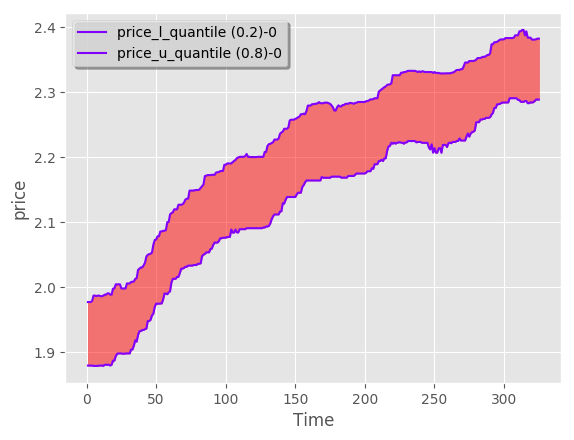
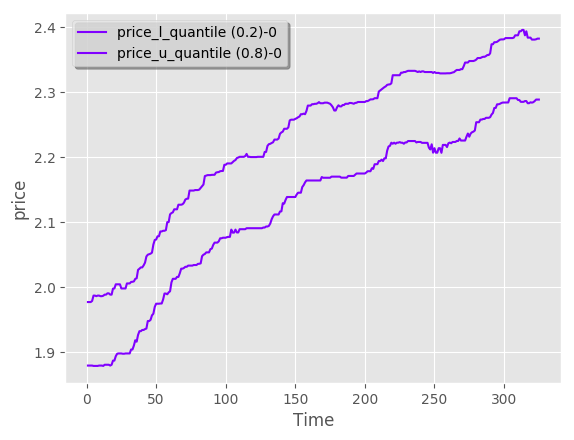
Renamed and fixed fill_between option from ticket #18

Changed region(s): [[0.1481, 0.0591, 0.9477, 0.8273]]

diff --git a/src/visualisation_scripts/plots.py b/src/visualisation_scripts/plots.py
@@ -153,7 +153,9 @@ class Timeseries(A):
                         clr = next(colors)
                         self.plot_line(ax, x, y1[r], legend_label[0]+'-'+str(r), clr)
                         self.plot_line(ax, x, y2[r], legend_label[1]+'-'+str(r), clr)
-                        plt.fill_between(x, y1[r], y2[r], color=self.__P.fillcolor(self.idx), alpha=.5)
+
+                        if self.__P.fill_between(self.idx):
+                            plt.fill_between(x, y1[r], y2[r], color=self.__P.fillcolor(self.idx), alpha=.5)
 
 
                     plot_name = self.__P.plot_name(self.idx)
@@ -256,7 +258,8 @@ class Timeseries(A):
                         clr = next(colors)
                         self.plot_line(ax, x, y1[r], legend_label[0]+'_run_'+str(r), clr)
                         self.plot_line(ax, x, y2[r], legend_label[1]+'_run_'+str(r), clr)
-                        plt.fill_between(x, y1[r], y2[r], color='k', alpha=.5)
+                        if self.__P.fill_between(self.idx):
+                            plt.fill_between(x, y1[r], y2[r], color='k', alpha=.5)
                         plot_name = self.__P.plot_name(self.idx)
                         plt.savefig(self.outpath + '/' + plot_name[:-4] + "_" + str(file_count) + ".png", bbox_inches='tight')
                         file_count = file_count + 1
@@ -319,7 +322,7 @@ class Histogram():
             le_label = label
         else:
             le_label = self.__P.legend_label(self.idx)
-        out = ax.hist(data, n_bins, histtype=self.__P.histtype(self.idx), stacked=self.__P.stacked(self.idx), normed=self.__P.norm(self.idx), fill=self.__P.fill(self.idx), color=colors, label=le_label)
+        out = ax.hist(data, n_bins, histtype=self.__P.histtype(self.idx), stacked=self.__P.stacked(self.idx), normed=self.__P.norm(self.idx), fill=self.__P.fill_between(self.idx), color=colors, label=le_label)
         if self.__P.legend(self.idx) is True:
             plt.legend(loc=self.__P.legend_location(self.idx), fancybox=True, shadow=True)
         if self.__P.plot_title(self.idx) is not None:
@@ -816,8 +819,8 @@ class Boxplot(A):
         #print s.mean().values
         box_df['mean'] = s.mean()
         box_df['median'] = s.median()
-        box_df['upper_quartile'] = s.upper_quartile()
-        box_df['lower_quartile'] = s.lower_quartile()
+        box_df['upper_percentile'] = s.upper_percentile()
+        box_df['lower_percentile'] = s.lower_percentile()
         box_df['max'] = s.maximum()
         box_df['min'] = s.minimum()
         return box_df

diff --git a/src/visualisation_scripts/parameters.py b/src/visualisation_scripts/parameters.py
@@ -12,7 +12,7 @@ class A:
 
 class M:
     # Types of statistical summary
-    mean, median, upper_quartile, lower_quartile, custom_quantile, minimum, maximum, full = range(8)
+    mean, median, upper_percentile, lower_percentile, custom_quantile, minimum, maximum, full = range(8)
     # 0, 1, 2, 3, 4, 5
 
 
@@ -294,10 +294,10 @@ class Plot_configuration():
             return self.__param[key]['normed']
         return self.__default_plot_parameters.__dict__['normed']
 
-    def fill(self, key):
-        if 'fill' in self.__param[key].keys():
-            return self.__param[key]['fill']
-        return self.__default_plot_parameters.__dict__['fill']
+    def fill_between(self, key):
+        if 'fill_between' in self.__param[key].keys():
+            return self.__param[key]['fill_between']
+        return self.__default_plot_parameters.__dict__['fill_between']
 
     def fillcolor(self, key):
         if 'fillcolor' in self.__param[key].keys():
@@ -338,7 +338,7 @@ class Figure_default_parameters(object):
         self.histtype = 'bar'
         self.stacked = False
         self.normed = 1
-        self.fill = False
+        self.fill_between = False
         self.fillcolor = 'black'
         self.greyscale = False
         self.number_bars = 5

diff --git a/src/visualisation_scripts/summarystats.py b/src/visualisation_scripts/summarystats.py
@@ -25,7 +25,7 @@ class SummaryStats(A):
         #print self.__data.head(5)
 
     def compute_summary(self):
-        summary_type = {'mean': self.mean, 'median': self.median, 'upper_quartile': self.upper_quartile, 'lower_quartile': self.lower_quartile, 'custom_quantile': self.custom_quantile, 'minimum': self.minimum, 'maximum': self.maximum, 'full':self.full}
+        summary_type = {'mean': self.mean, 'median': self.median, 'upper_percentile': self.upper_percentile, 'lower_percentile': self.lower_percentile, 'custom_quantile': self.custom_quantile, 'minimum': self.minimum, 'maximum': self.maximum, 'full':self.full}
         return summary_type[self.__param['summary']]()
 
     def map_analysis(self):
@@ -101,8 +101,8 @@ class SummaryStats(A):
     def median(self):
         return self.quantile(0.50)
 
-    def upper_quartile(self):
+    def upper_percentile(self):
         return self.quantile(0.75)
 
-    def lower_quartile(self):
+    def lower_percentile(self):
         return self.quantile(0.25)

diff --git a/docs/visualisation_scripts/config.rst b/docs/visualisation_scripts/config.rst
@@ -16,7 +16,7 @@ config.yaml
 ::
 
   i/o:
-    # set up the name of the root folder from repository    
+    # set up the name of the root folder from repository
     repo_name: 'FLAViz'
 
     # for absolute input paths use:
@@ -31,7 +31,7 @@ config.yaml
 
     # for relative output paths use:
     output_path: 'results'
-    
+
     input_files:
         CentralBank: CentralBank.h5
         Eurostat: Eurostat.h5
@@ -65,11 +65,11 @@ The type of analysis determines how the data set is being grouped using the ``gr
 As an example, the relevant code for taking the mean is (see ``summarystats.py``):
 
         agent_analysis = lambda: self.__data.groupby(level=['set', 'run', 'major', 'minor']).mean()
-        
+
         multiple_run_analysis = lambda: self.__data.groupby(level=['set', 'run', 'major']).mean()
-        
+
         multiple_batch_analysis = lambda: self.__data.groupby(level=['set', 'major']).mean()
-        
+
         multiple_set_analysis = lambda: self.__data.groupby(level=['major']).mean()
 
 *NOTE:* the major axis are the iterations, the minor axis are the agent instances.
@@ -190,9 +190,9 @@ Example::
 
 * ``custom_quantile``: this allows to select an upper and a lower quantile, see below.
 
-* ``upper_quartile``: returns the 75th percentile of the data set
+* ``upper_percentile``: returns the 75th percentile of the data set
 
-* ``lower_quartile``: returns the 25th percentile of the data set
+* ``lower_percentile``: returns the 25th percentile of the data set
 
 * ``maximum``: returns maximum value of the data set
 
@@ -200,6 +200,7 @@ Example::
 
 * ``full``: returns the full data set as an ensemble distribution.
 
+..
 * ``no``, ``none``: any non-existent keyword can be used if no summary of the data set is needed; these will be ignored by the code.
 
 Example::
@@ -216,8 +217,8 @@ Example::
         timeseries:
             summary: custom_quantile
             quantile_values:
-               lower_quantile : 0.20
-               upper_quantile : 0.80
+               lower_percentile : 0.20
+               upper_percentile : 0.80
 
 A typical main configuration file may look as follows::
 
@@ -235,7 +236,7 @@ A typical main configuration file may look as follows::
             CentralBank: CentralBank.h5 # please name the key as the agent name
             Eurostat: Eurostat.h5
             Firm: Firm.h5
-            
+
     plot1:
         timeseries:
             agent: Firm
@@ -260,14 +261,14 @@ A typical main configuration file may look as follows::
             minor: [range,[1,80]]
             summary: custom_quantile
             quantile_values:
-               lower_quantile : 0.20
-               upper_quantile : 0.80
+               lower_percentile : 0.20
+               upper_percentile : 0.80
 
 plot_config.yaml
 ~~~~~~~~~
 
 The *plot_config.yaml* file contains all the necessary configuration options for a plot. Whenever a plot is specified on the *config.yaml* file, the *plot_config.yaml* file is read for the necessary specifications of the plot. As such, some of the parameters from the *plot_config.yaml* file is explained below.
-All options can also be found on the matplotlib website 
+All options can also be found on the matplotlib website
 https://matplotlib.org/api/_as_gen/matplotlib.pyplot.plot.html
 
 **Plot-key( i.e.** ``plot1`` **):** This string should be the same as the Plot-key in the *config.yaml* file, to make sure
@@ -316,12 +317,12 @@ A typical *plot_config.yaml* file might look like this::
         yaxis_label: price
         linestyle: solid
         marker: None
-        fill_between_quartiles: yes
+        fill_between: yes
         fillcolor: red
 
 If an option is not specified, then the default settings are::
 
-    plot_legend = 'no'    
+    plot_legend = 'no'
     legend_label = None
     legend_location = 'best'
     plot_type = None
@@ -341,7 +342,7 @@ If an option is not specified, then the default settings are::
     histtype = 'bar'
     stacked = False
     normed = 1
-    fill = False
+    fill_between = False
     fillcolor = 'black'
     greyscale = False
     number_bars = 5
@@ -380,7 +381,7 @@ the input of multiple variables for any agent type.
 
 ``aggregate``: If the transformation is to be performed after calculating the summary stats, then a necessary aggregation method can be specified.
 
-*Possible values:* ``mean``, ``median``, ``maximum``, ``minimum``, ``custom_quantile``, ``upper_quartile``, ``lower_quartile``.
+*Possible values:* ``mean``, ``median``, ``maximum``, ``minimum``, ``custom_quantile``, ``upper_percentile``, ``lower_percentile``.
 
 ``write_file``: Specify whether to write the transformation as a file. *Possible values:* ``yes``, ``no``.
 
